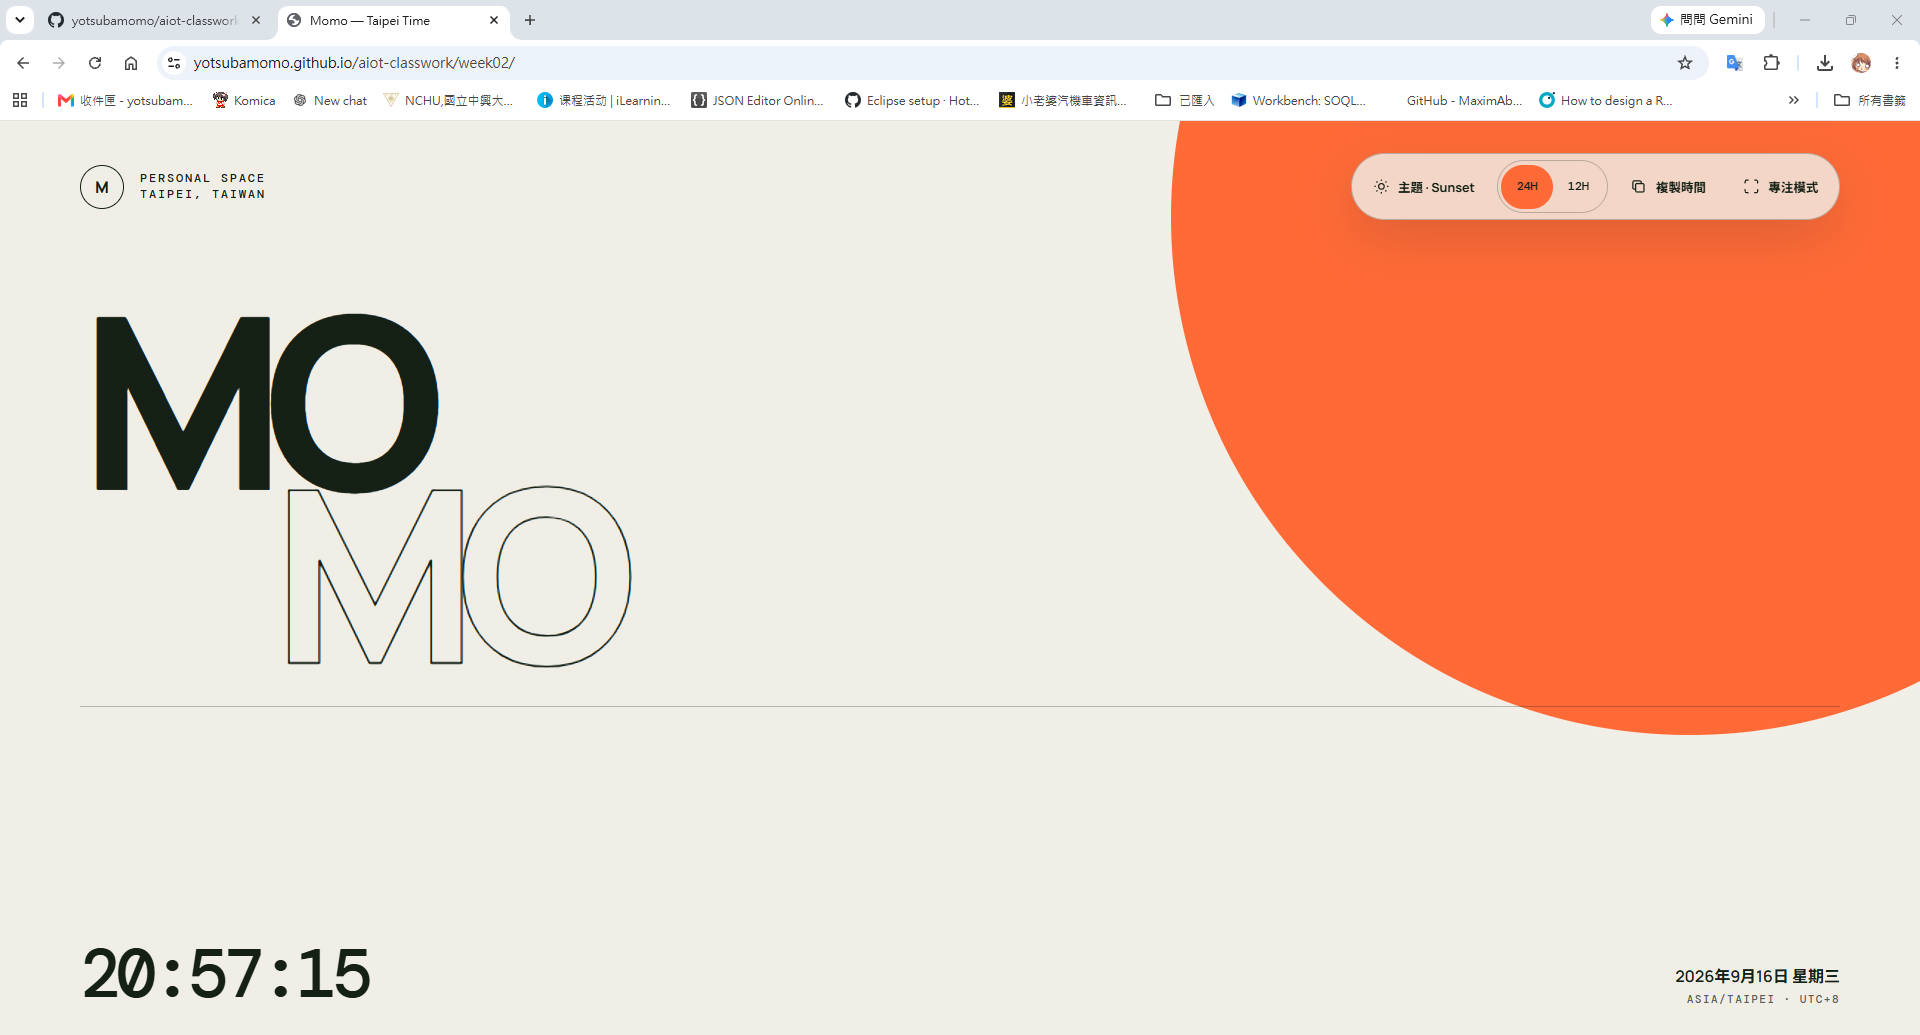
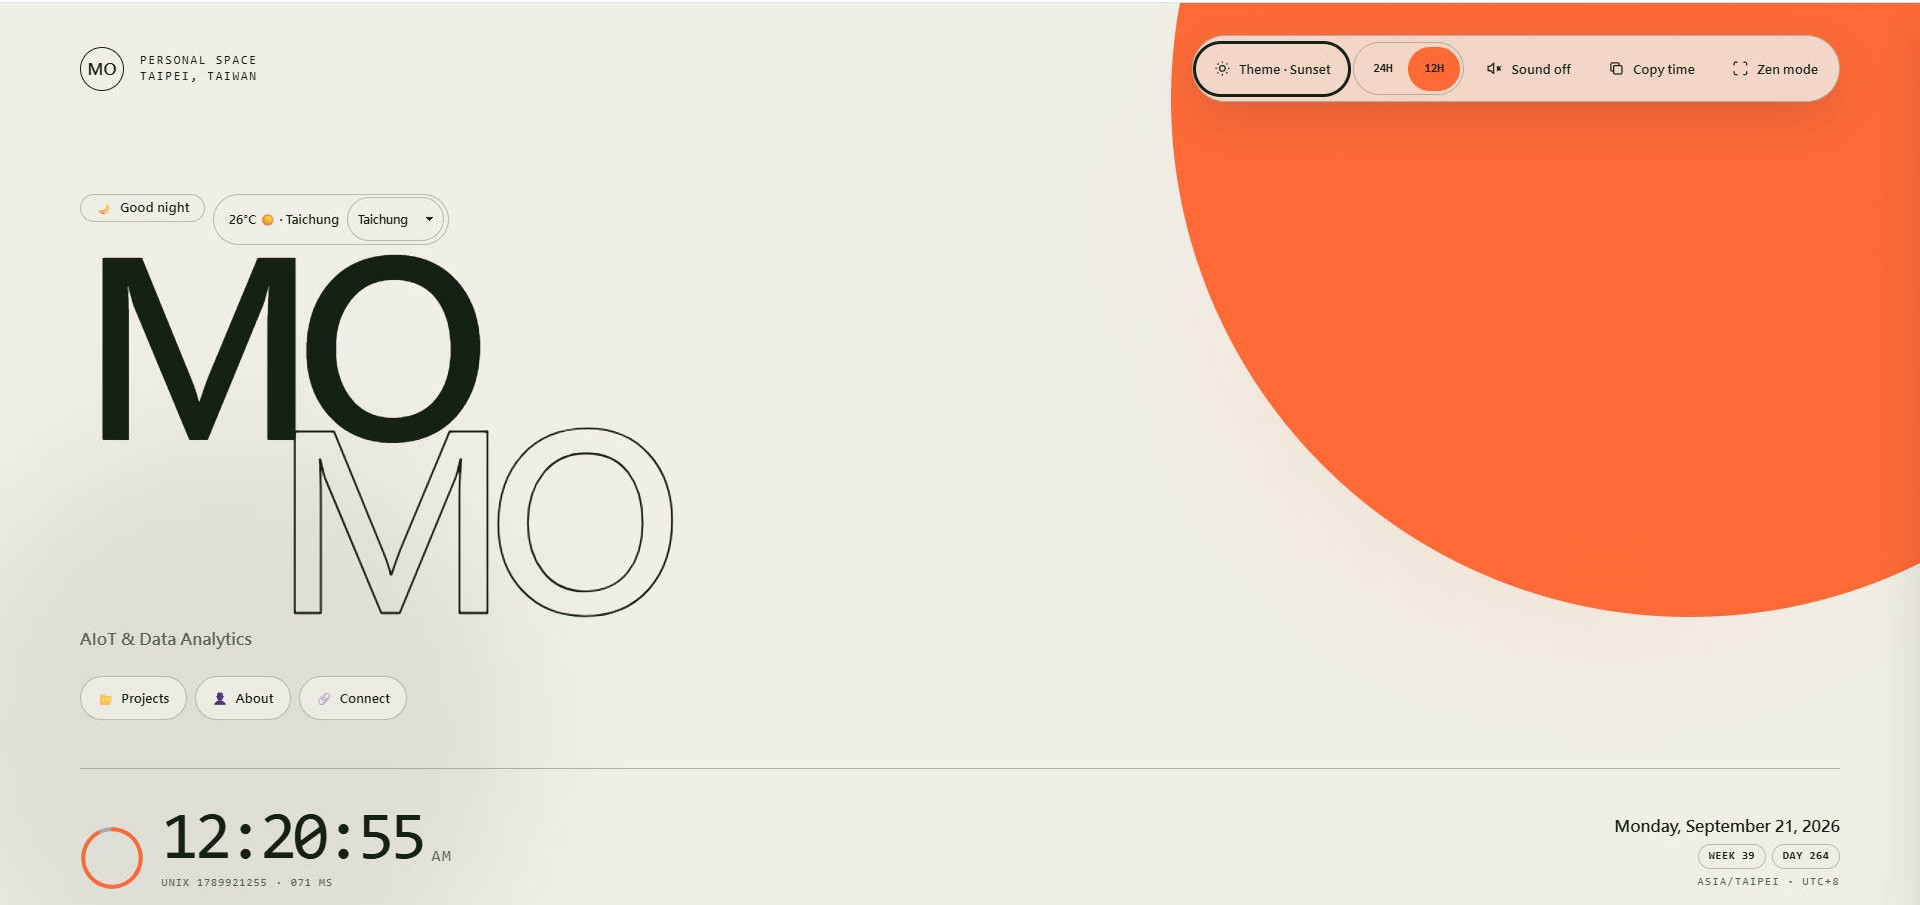
Refresh the demo screenshot and restore it in the README
The new capture is of the deployed site. Cropped away the browser chrome
so the bookmarks bar and account avatar do not end up in a public repo.

diff --git a/week02/README.md b/week02/README.md
@@ -13,9 +13,9 @@
 
 ## Live Demo
 
-<https://yotsubamomo.github.io/aiot-classwork/week02/>
+[![DIC-1 個人入口網站與動態時鐘](./home.jpg)](https://yotsubamomo.github.io/aiot-classwork/week02/)
 
-> `home.jpg` 是補齊規格前的淺色版面截圖，與目前的深色預設不符，尚未重拍。
+> 點擊圖片可開啟 Live Demo。截圖是 `Sunset` 主題；首次造訪的預設主題是深色的 `Aurora`。
 
 ## 專案摘要
 
